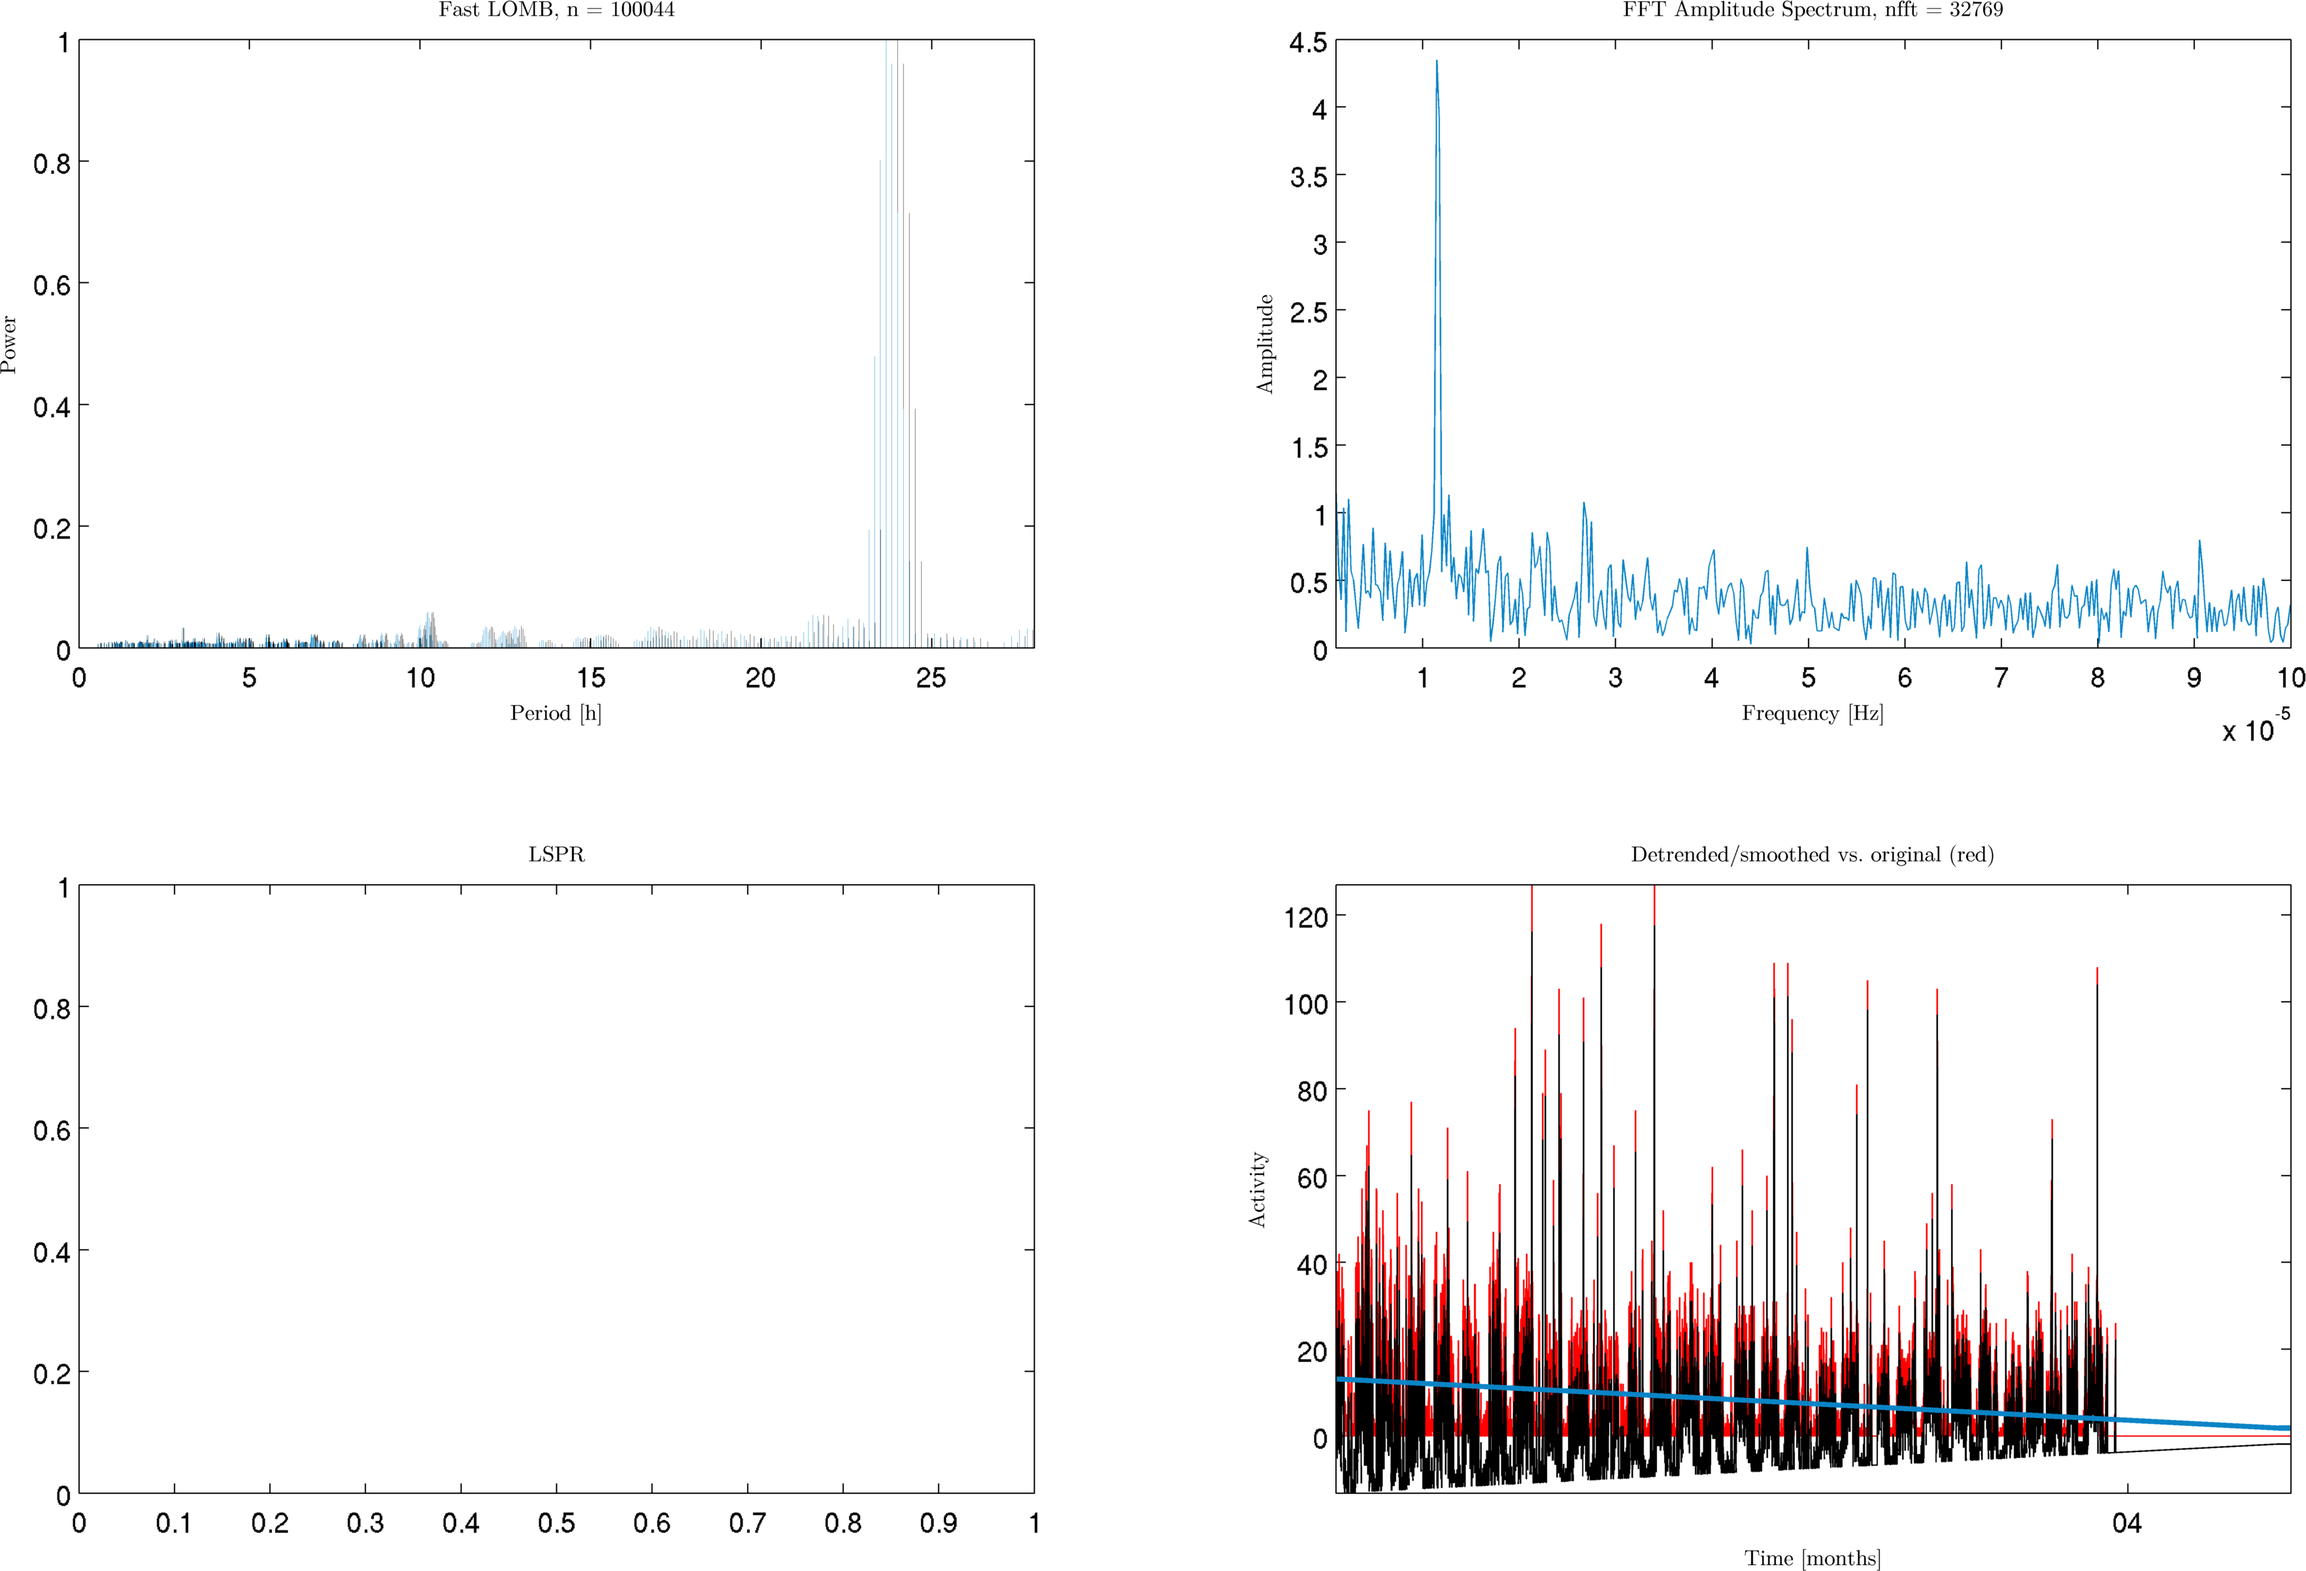
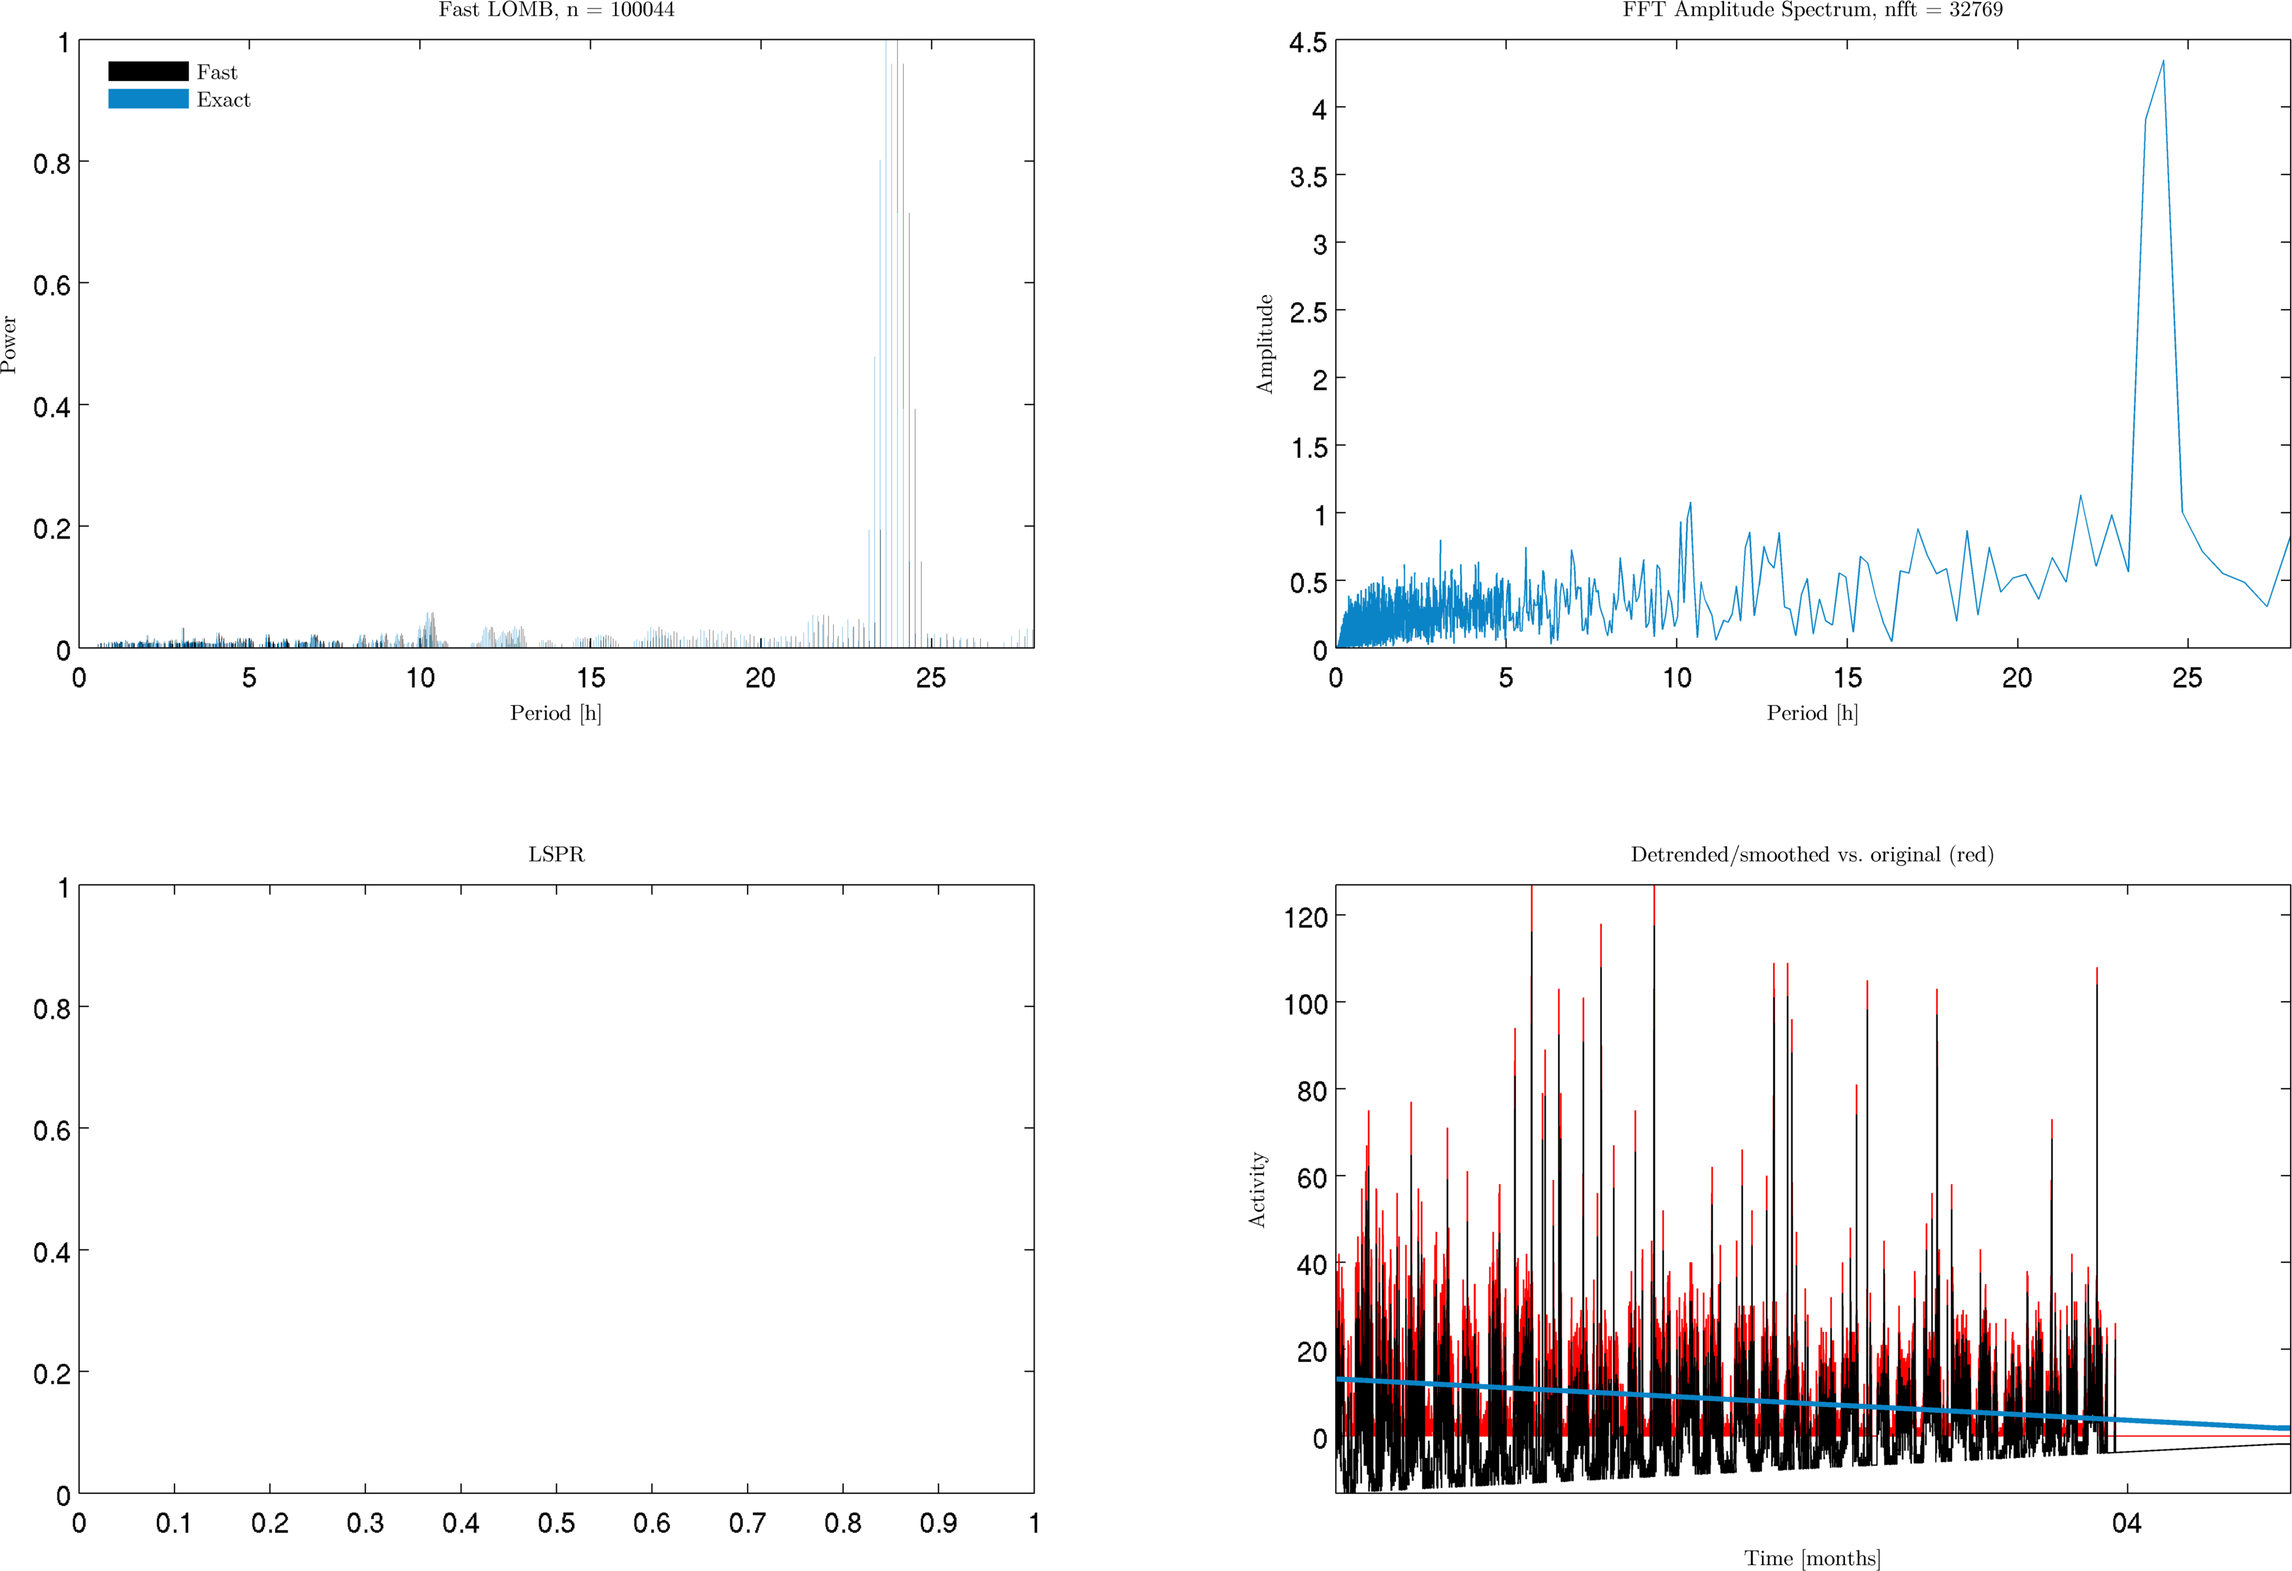
fine-tuning of figures

diff --git a/plot functions/init_periodogram.m b/plot functions/init_periodogram.m
@@ -28,6 +28,9 @@ function handles = init_periodogram(handles, param_imp)
         handles.figHandles.fft_xlab(j) = xlabel('Period [h]');
         handles.figHandles.fft_ylab(j) = ylabel('Power');
 
+        figHandles.fft_leg = legend('Fast', 'Exact', 2);
+            legend('boxoff')
+        
 
     % xxx
     j = 2;
@@ -35,7 +38,7 @@ function handles = init_periodogram(handles, param_imp)
         handles.figHandles.fft(j,1) = plot(NaN, NaN);
         set(handles.figHandles.fft(j,1), 'Color', handles.plotSettings.colorBlueLight);
         handles.figHandles.fft_tit(j) = title('');
-        handles.figHandles.fft_xlab(j) = xlabel('Frequency [Hz]');
+        handles.figHandles.fft_xlab(j) = xlabel('Period [h]');
         handles.figHandles.fft_ylab(j) = ylabel('Amplitude');
 
     % xxx
@@ -56,5 +59,5 @@ function handles = init_periodogram(handles, param_imp)
 
         set(handles.figHandles.fft(j,3), 'LineWidth', 2, 'Color', handles.plotSettings.colorBlueLight)
 
-    set([handles.figHandles.fft_tit handles.figHandles.fft_xlab handles.figHandles.fft_ylab],...
+    set([handles.figHandles.fft_tit handles.figHandles.fft_xlab handles.figHandles.fft_ylab figHandles.fft_leg],...
         'FontName', handles.plotSettings.fontName, 'FontSize', handles.plotSettings.fontSize_base)

diff --git a/plot functions/update_periodogram.m b/plot functions/update_periodogram.m
@@ -35,8 +35,8 @@ function handles = update_periodogram(handles, data_comp, data_group, data_imp)
 
 
     % subplot 2
-        set(handles.figHandles.fft(2,1), 'XData', data_comp.all.periodg_x.fft, 'YData', data_comp.all.periodg_Pxx.fft)
-        set(handles.figHandles.fft_sp(2), 'XLim', handles.plotSettings.fft_freqLimits)
+        set(handles.figHandles.fft(2,1), 'XData', 1 ./ data_comp.all.periodg_x.fft / 60 / 60, 'YData', data_comp.all.periodg_Pxx.fft)
+        set(handles.figHandles.fft_sp(2), 'XLim', handles.plotSettings.fft_PeriodLimits)
         set(handles.figHandles.fft_tit(2), 'String', ['FFT Amplitude Spectrum, nfft = ', num2str(length(data_comp.all.periodg_Pxx.fft))])
 
 

diff --git a/plot functions/plot_sleepScoring.m b/plot functions/plot_sleepScoring.m
@@ -64,7 +64,7 @@ function plot_sleepScoring(data_group, data_imp, style, handles)
         
     % autosave the figure      
     if style.imgOutautoSavePlot == 1            
-        fileNameOut = ['dfaAnalysis_', strrep(handles.importSettings.inputFile, '.txt', ''), '.png'];
+        fileNameOut = ['sleepScoring_', strrep(handles.importSettings.inputFile, '.txt', ''), '.png'];
         cd(handles.path.figuresOut)
         saveToDisk(fig, fullfile(handles.path.figuresOut, fileNameOut), style)
         % cd(handles.path.mainCode)
